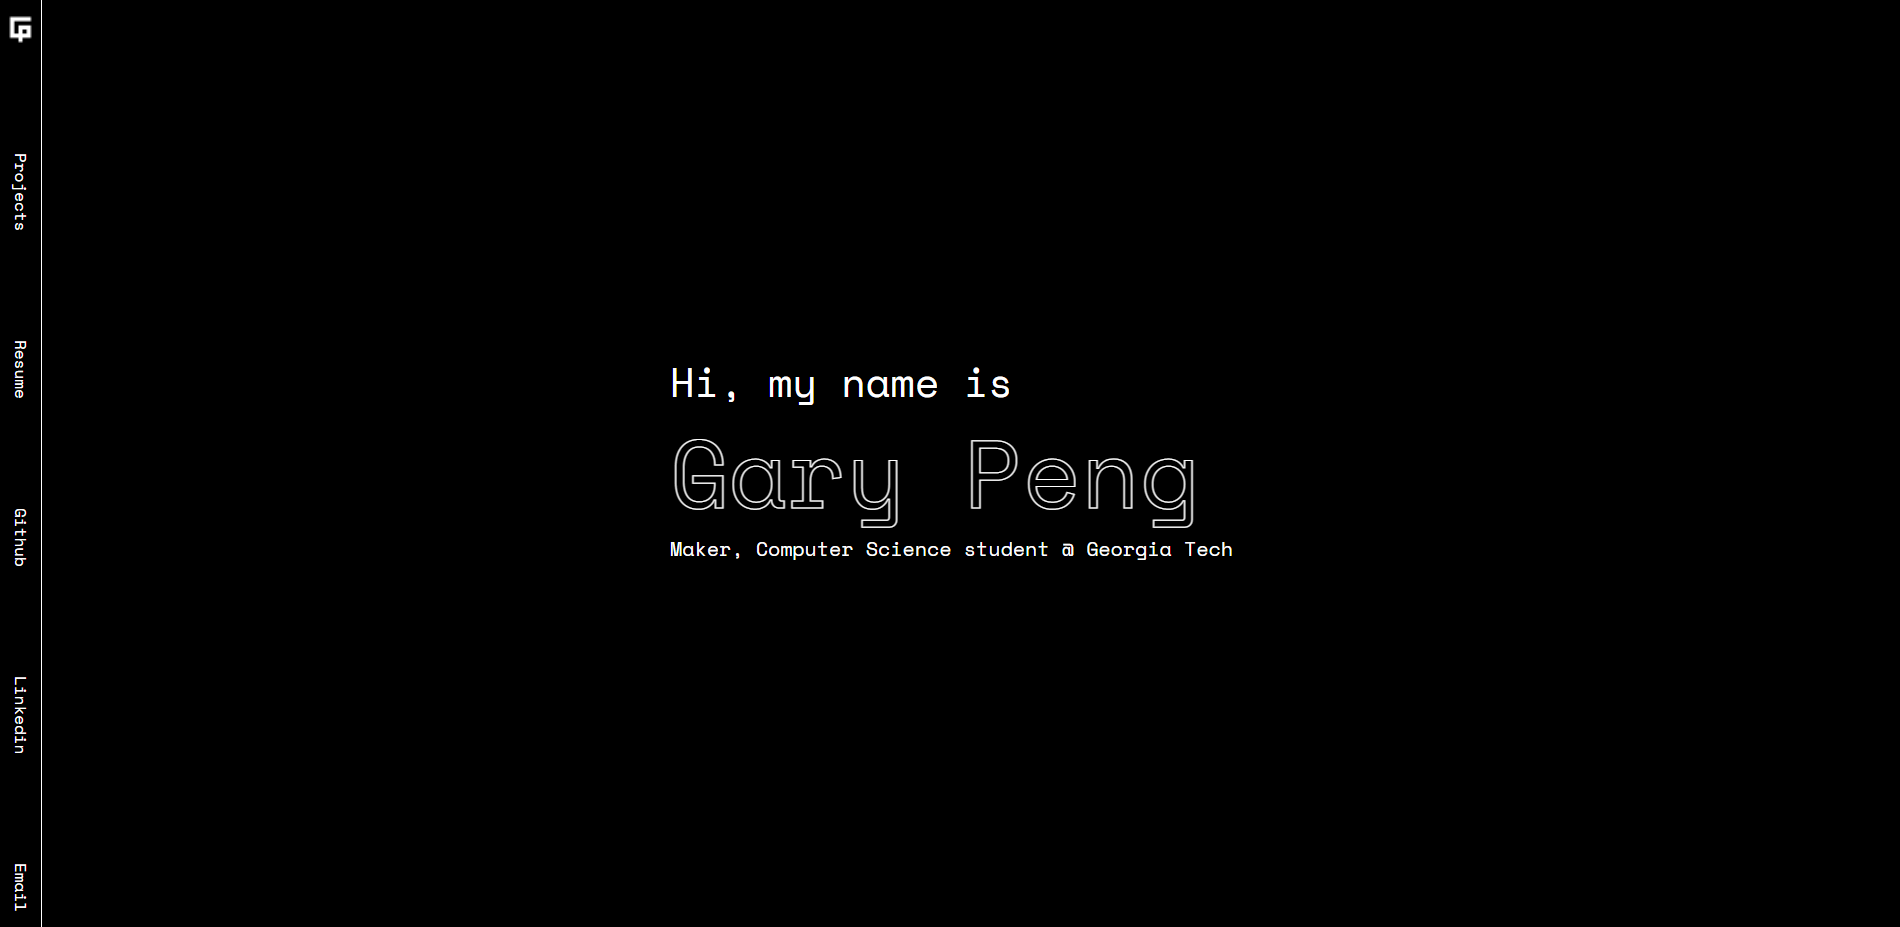
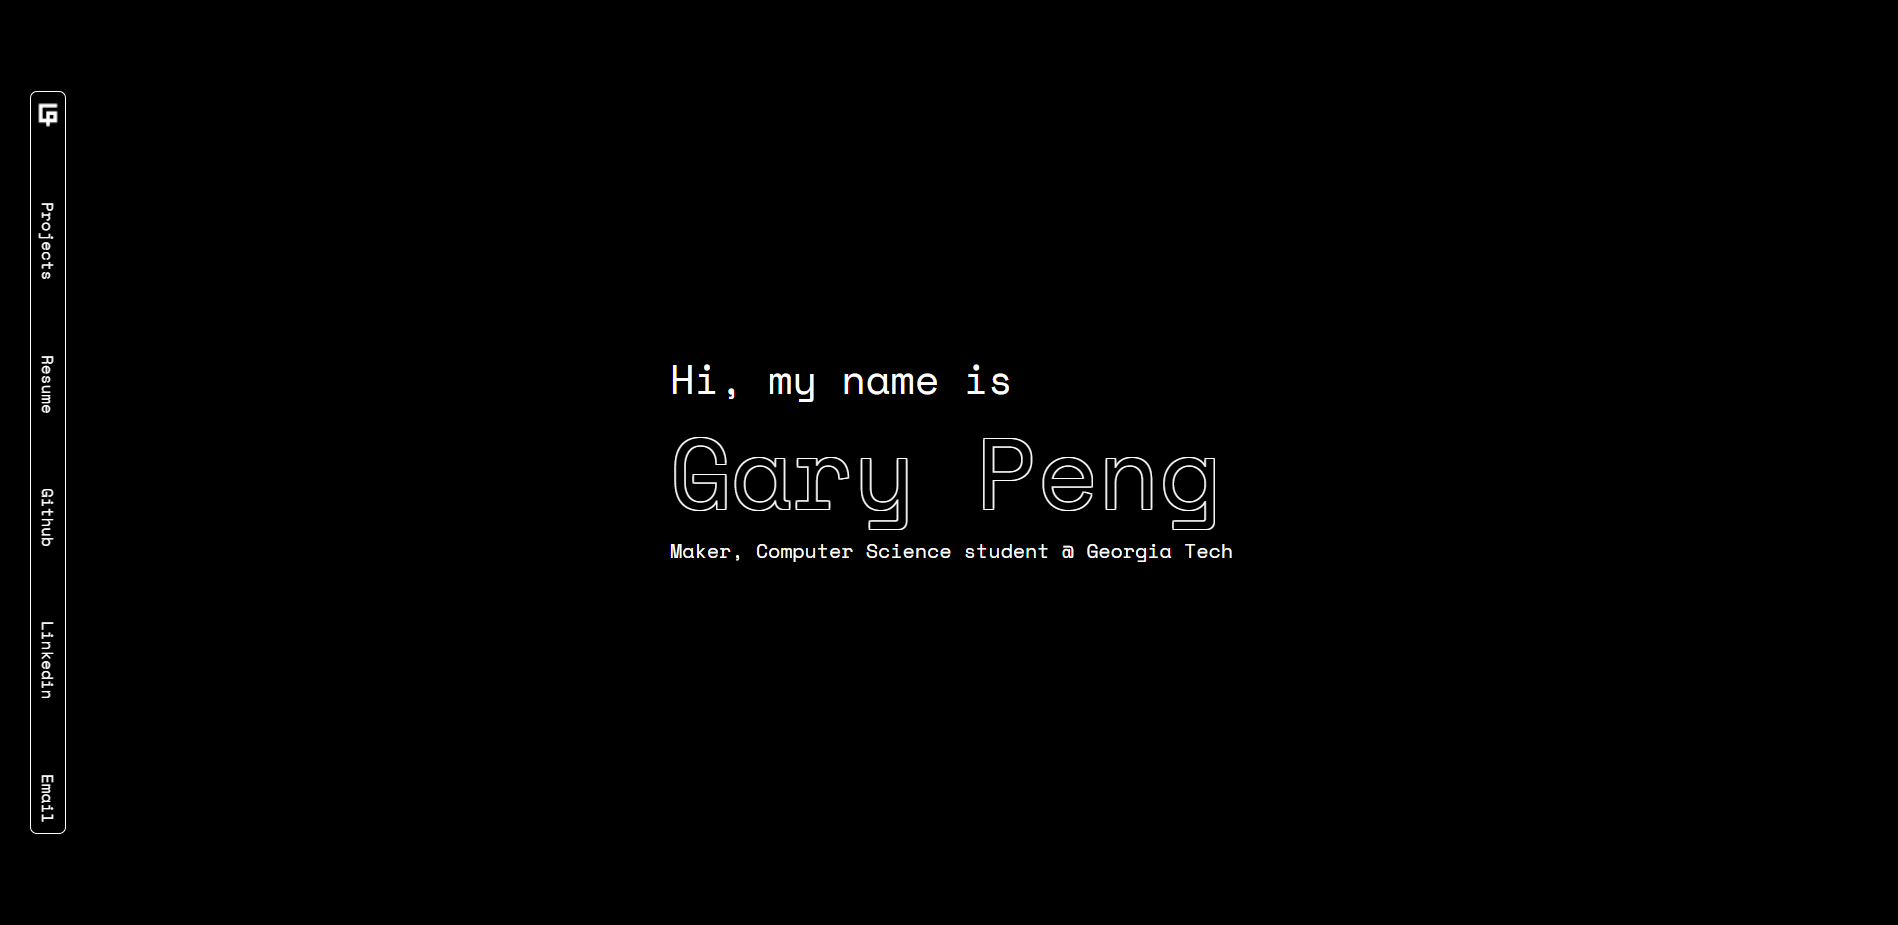
Cleanup & responsive fixes

diff --git a/src/components/ProjectList.js b/src/components/ProjectList.js
@@ -1,32 +1,49 @@
 import React from 'react';
-import { Heading, Flex, Box } from '@chakra-ui/react';
+import { Heading, Flex, Box, useBreakpointValue  } from '@chakra-ui/react';
 
 import ProjectCard from './ProjectCard';
 import data from '../data';
 
 export default function ProjectList() {
+    const breakPt = useBreakpointValue({ base: 'base', md: 'md' })
+    console.log(breakPt)
+
     const projectGroup = []
     for (let i = 0; i < data.projects.length; i++) {
         if (i % 3 === 0) projectGroup.push([]);
         projectGroup[projectGroup.length - 1].push(data.projects[i])
     }
 
+    const projectCards = () => {
+        if (breakPt === "base") {
+            return projectGroup.map((group) => {
+                return (
+                    group.map((el) => {
+                        return <ProjectCard project={el} />
+                    })
+                );
+            });
+        }
 
-    return (
-        <Flex justifyContent="center" id="projects">
-            <Box>
-                <Heading fontWeight="normal" fontSize='25px' mt="20px" ml="10px">Projects</Heading>
+        return projectGroup.map((group) => {
+            return (
+                <Flex>
                 {
-                    projectGroup.map((group) => {
-                        return (<Flex flexWrap="wrap">
-                            {
-                                group.map((el) => {
-                                    return <ProjectCard project={el} />
-                                })
-                            }
-                        </Flex>)
+                    group.map((el) => {
+                        return <ProjectCard project={el} />
                     })
                 }
+                </Flex>
+            );
+        });
+    }
+
+
+    return (
+        <Flex flexDirection="column" alignItems="center" id="projects">
+            <Box>
+                <Heading fontWeight="normal" fontSize='25px' mt="20px" ml="10px">Projects</Heading>
+                {projectCards()}
             </Box>
         </Flex>
     )

diff --git a/src/data.js b/src/data.js
@@ -4,7 +4,7 @@ export default {
             name: "oncoIQ",
             lang: "Python, JavaScript",
             tech: "React, Flask, SQL, Redis, FastAI, PyTorch, Docker",
-            desc: "An online platform that leverages machine learning and crowdsourcing to help pathologists make diagnoses.",
+            desc: "An online platform that leverages machine learning and social networking to help pathologists make diagnoses.",
             img: "https://raw.githubusercontent.com/oncoiq/oncoIQ/master/src/components/logo-white.svg",
 
             links: [
@@ -15,6 +15,24 @@ export default {
                 {
                     name: "Github",
                     url: "https://github.com/oncoiq",
+                },
+            ],
+        },
+        {
+            name: "Ethernote",
+            lang: "Solidity, JavaScript",
+            tech: "React, Ethereum Blockchain, IPFS, Metamask",
+            desc: "A decentralized note-taking app built on the Ethereum blockchain.",
+            img: "https://github.com/gary-peng/ethernote/raw/main/public/screenshot.PNG",
+
+            links: [
+                {
+                    name: "Web App",
+                    url: "https://garypeng.com/ethernote/",
+                },
+                {
+                    name: "Github",
+                    url: "https://github.com/gary-peng/ethernote",
                 },
             ],
         },

diff --git a/src/components/ProjectCard.js b/src/components/ProjectCard.js
@@ -5,13 +5,13 @@ import BadgeBtn from './BadgeBtn'
 
 export default function ProjectCard(props) {
     return (
-        <Flex flexDirection="column" width={{ base: "80vw", md: "20vw" }} height="50vh" border="1px solid white" borderRadius="7px" m="10px" p="15px" overflowY="auto">
+        <Flex flexDirection="column" width={{ base: "80vw", md: "20vw" }} height={{ base: "60vh", md: "50vh" }} border="1px solid white" borderRadius="7px" m="10px" p="15px" overflowY="auto">
             <Flex height="30%" justifyContent="center" mb="20px"> 
                 <Image height="100%" objectFit="contain" border="1px solid white" borderRadius="7px" src={props.project.img} />
             </Flex>
-            <Heading fontWeight="normal" textDecoration="underline" size="md">{props.project.name}</Heading>
-            <Text fontSize='xs'>{props.project.lang}, {props.project.tech}</Text>
-            <Text>{props.project.desc}</Text>
+            <Heading fontWeight="normal" textDecoration="underline" size="md" mb="10px">{props.project.name}</Heading>
+            <Text fontSize='xs' mb="10px">{props.project.lang}, {props.project.tech}</Text>
+            <Text mb="20px">{props.project.desc}</Text>
 
             <Box>
                 {

diff --git a/src/components/Header.js b/src/components/Header.js
@@ -10,9 +10,9 @@ export default function Header() {
     return (
         <Flex h="100vh" justifyContent="center" alignItems="center">
             <Box>
-                    <Heading fontWeight="normal" fontSize={{ base: "28px", md: "40px" }} ref={glitchRef1}>{glitchVal1}</Heading>
-                    <Heading fontWeight="normal" fontSize={{ base: "70px", md: "100px" }} textShadow="-1px -1px 0 white, 1px -1px 0 white, -1px 1px 0 white, 1px 1px 0 white" color="black" ref={glitchRef2}>{glitchVal2}</Heading>
-                    <Heading fontWeight="normal" fontSize={{ base: "13px", md: "20px" }} ref={glitchRef3}>{glitchVal3}</Heading>
+                    <Heading fontWeight="normal" fontSize={{ base: "20px", md: "40px" }} ref={glitchRef1}>{glitchVal1}</Heading>
+                    <Heading fontWeight="normal" fontSize={{ base: "50px", md: "100px" }} textShadow="-1px -1px 0 white, 1px -1px 0 white, -1px 1px 0 white, 1px 1px 0 white" color="black" ref={glitchRef2}>{glitchVal2}</Heading>
+                    <Heading fontWeight="normal" fontSize={{ base: "10px", md: "20px" }} ref={glitchRef3}>{glitchVal3}</Heading>
             </Box>
         </Flex>
     )

diff --git a/src/components/Navbar.js b/src/components/Navbar.js
@@ -10,7 +10,7 @@ export default function Navibar() {
     return (
         <Flex h="100vh" justifyContent="center" alignItems="center" position="fixed" display={{ base: "none", md: "flex" }}>
             <Flex h="80%" flexDirection="column" justifyContent="space-between" alignItems="center" ml="30px" px="5px" py="10px" border="1px solid white" borderRadius="7px">
-                <img class="" src={logo} width="22" height="auto" loading="lazy" />
+                <img src={logo} width="22" height="auto" loading="lazy" />
                 <NavLink href="/#projects" text="Projects" vert />
                 <NavLink href={resume} text="Resume" url vert />
                 <NavLink href="https://github.com/gary-peng" text="Github" url vert />

diff --git a/src/components/CollapseNav.js b/src/components/CollapseNav.js
@@ -12,7 +12,7 @@ export default function CollapseNav() {
     return (
         <Box display={{ base: "block", md: "none" }} p="20px">
             <Flex justifyContent="space-between" alignItems="center">
-                <img class="" src={logo} width="25" height="auto" loading="lazy" />
+                <img src={logo} width="25" height="auto" loading="lazy" />
                 <Button 
                     color="white"
                     onClick={() => setOpen(!open)}

diff --git a/src/pages/index.js b/src/pages/index.js
@@ -1,5 +1,4 @@
 import * as React from "react";
-import 'bootstrap/dist/css/bootstrap.min.css';
 import "../styles/global.css";
 
 import { Helmet } from "react-helmet"
